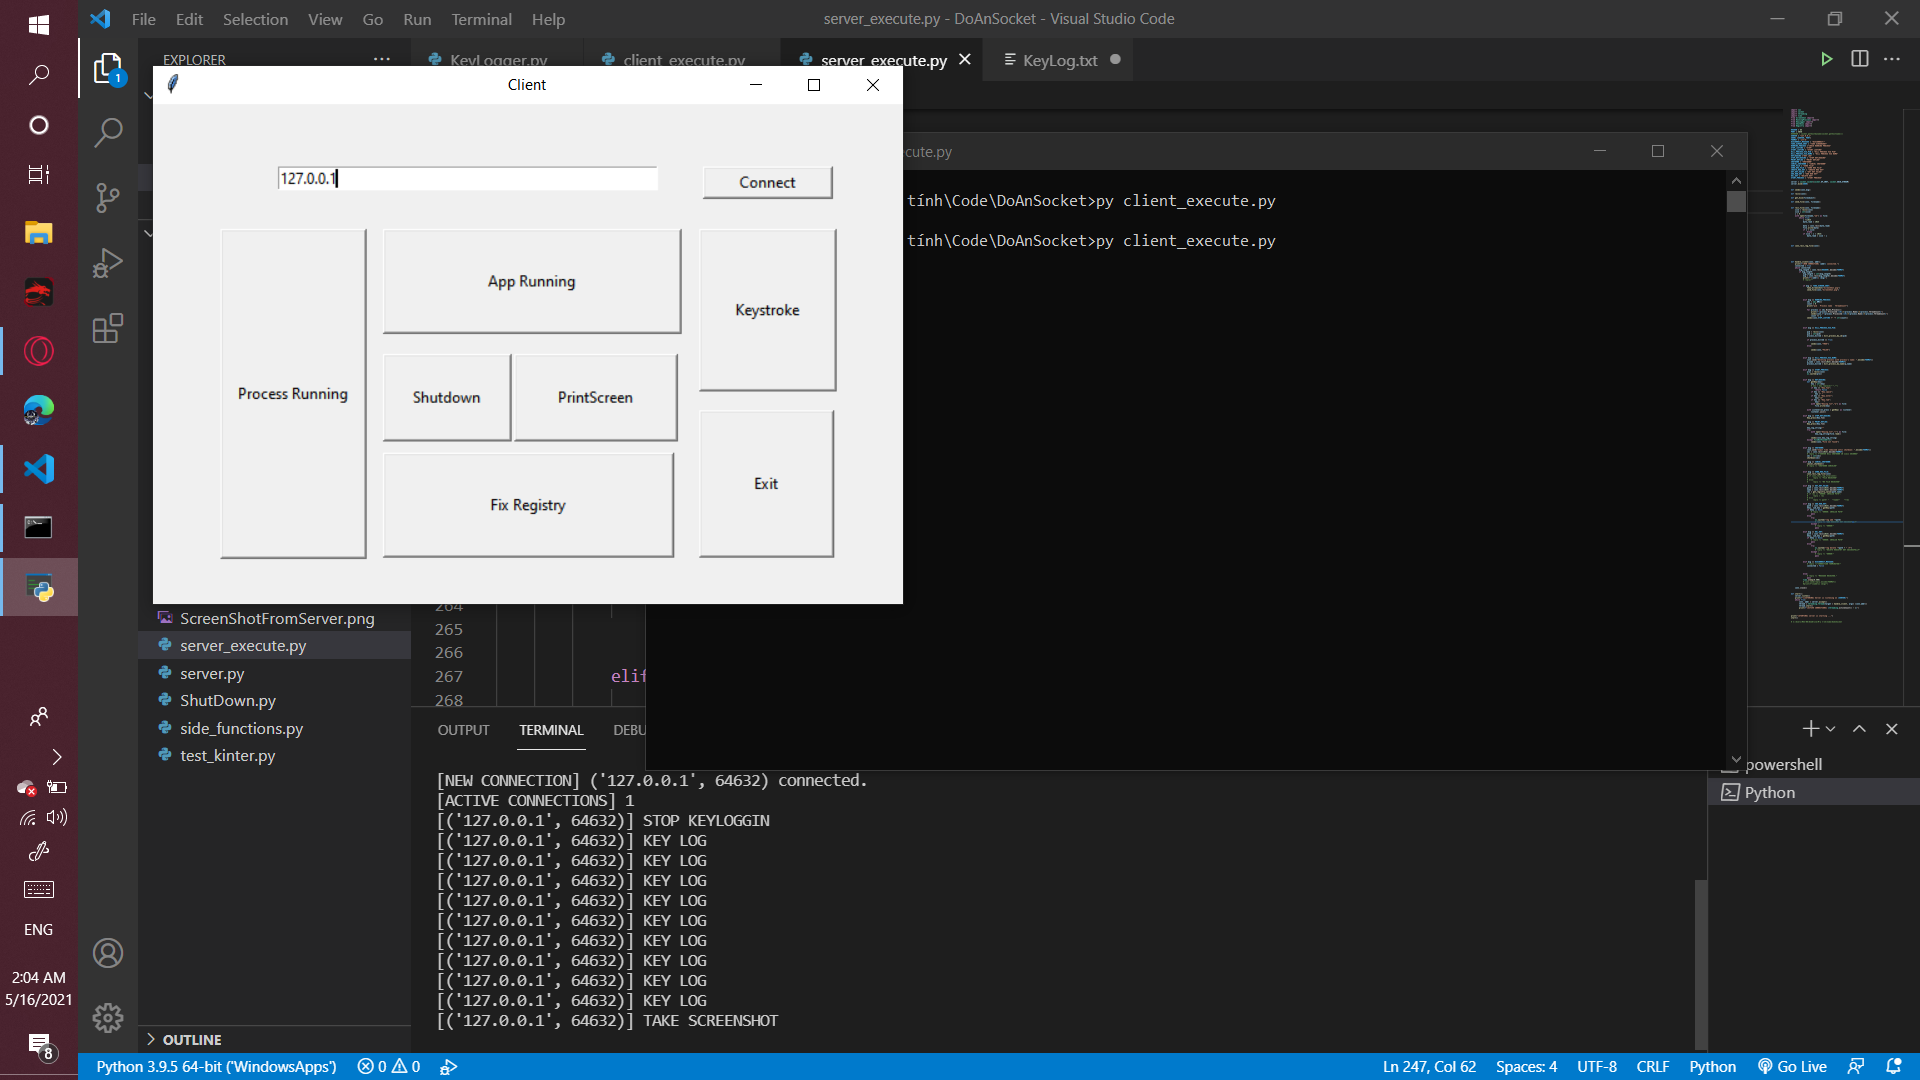
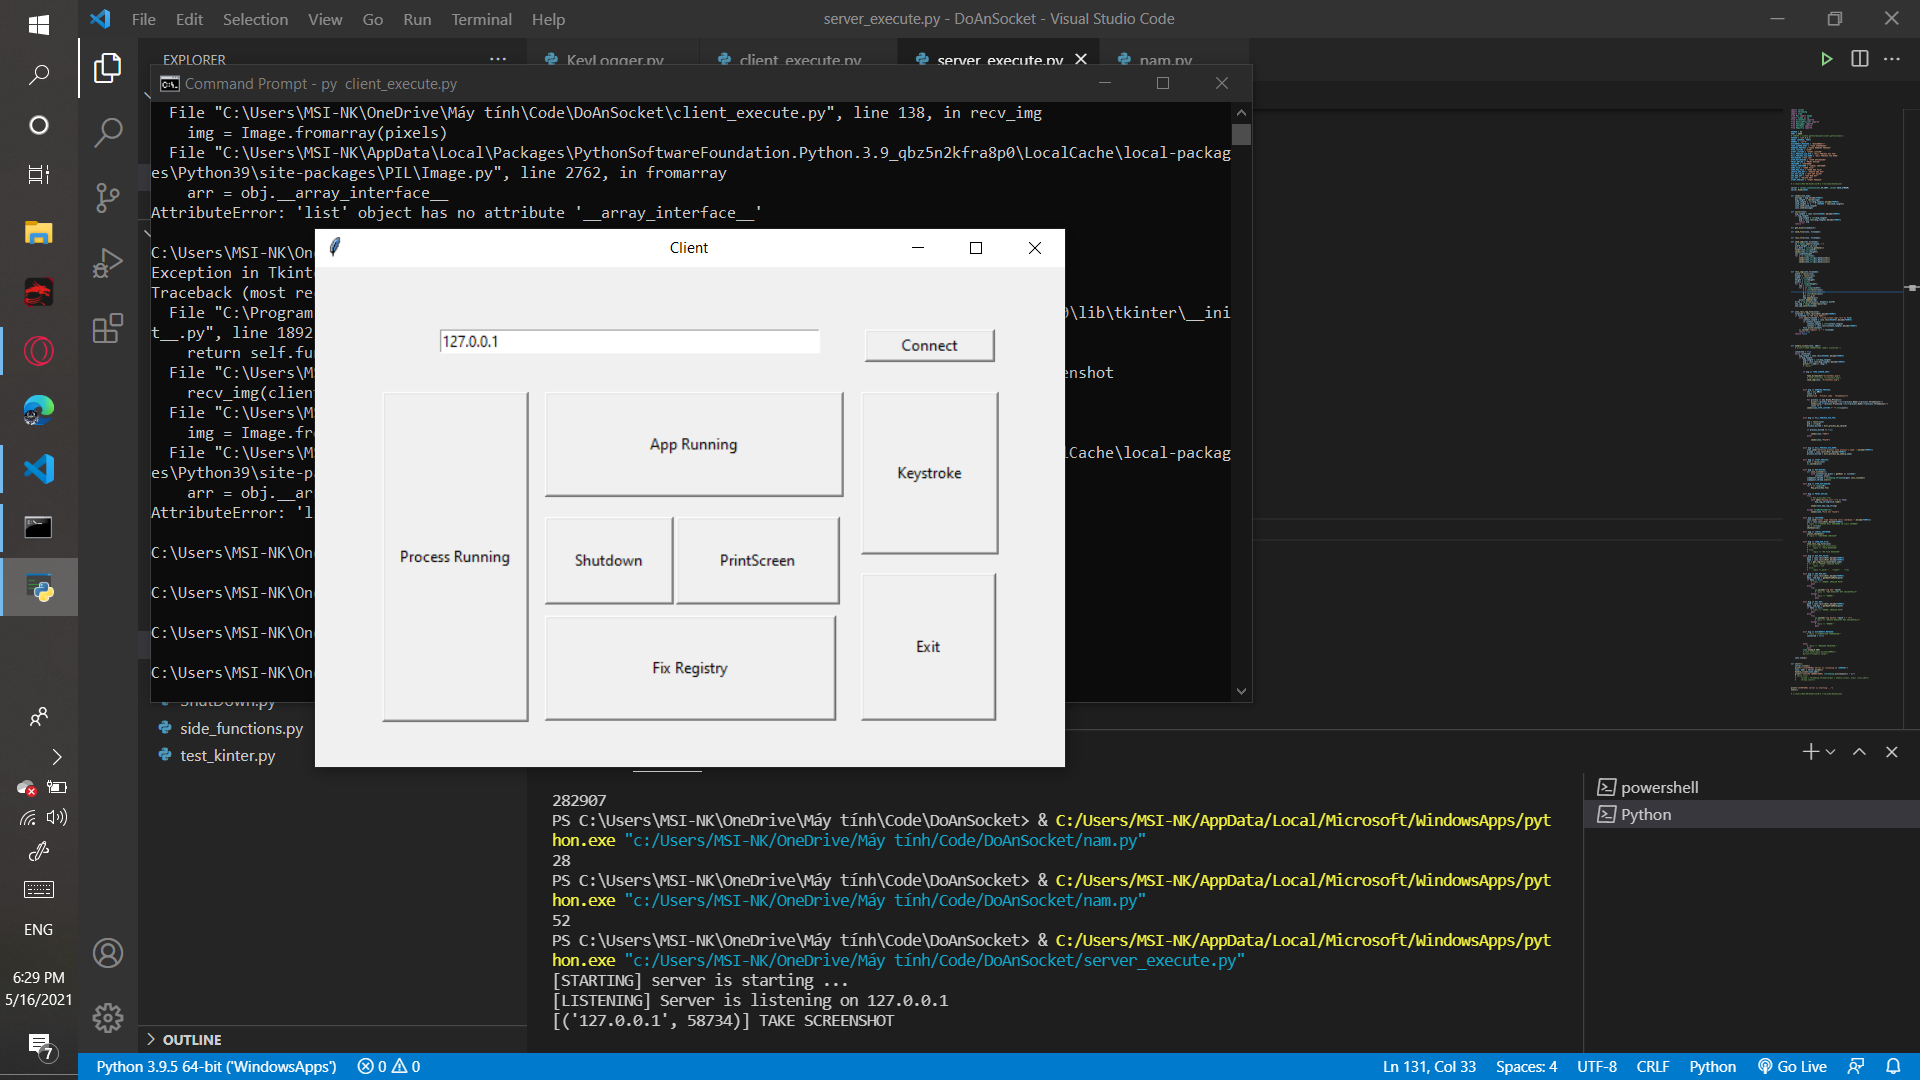
Add files via upload

diff --git a/server_execute.py b/server_execute.py
@@ -2,6 +2,8 @@ import sys
 import socket
 import threading
 import time
+from PIL import Image
+import numpy as np
 from ScreenShot import*
 from RunningProccess import*
 from KeyLogger import*
@@ -10,7 +12,7 @@ from Registry import*
 
 HEADER = 64
 PORT = 5050
-#SERVER = socket.gethostbyname(socket.gethostname())
+# SERVER = socket.gethostbyname(socket.gethostname())
 SERVER = "127.0.0.1"
 ADDR= (SERVER, PORT)
 FORMAT = 'utf-8'
@@ -65,15 +67,22 @@ def send_file(conn, filename):
     file = open(filename,"rb")
     size = get_Size(file)
     size = str(size)
+    print(size)
     file.close()
     # conn.send(size.encode(FORMAT))
     send1(conn,size)
 
     with open(filename, "rb") as fp:
+        # i=0
         data = fp.read(1024)
+        # print(f"{i}    {sys.getsizeof(data)}")
         while data:
             conn.send(data)
+            # i += 1
             data = fp.read(1024)
+            # print(f"{i}    {sys.getsizeof(data)}")
+
+
             if not data:
                 break
 
@@ -94,7 +103,39 @@ def recv_file(conn, filename):
             if size - i < 1024:
                 byte_read = size - i
 
+def send_img(conn,filename):
+    im = Image.open(filename,'r')
+    width,height = im.size
+    pic_data = list(im.getdata())
+    send1(conn,str(width))
+    send1(conn,str(height))
+    len =width*height
+    for i in range(len):
+        send1(conn,str(pic_data[i][0]))
+        send1(conn,str(pic_data[i][1]))            
+        send1(conn,str(pic_data[i][2]))            
 
+
+    
+
+def recv_img(conn,filename):
+    width = recv1(conn)
+    height = recv1(conn)
+    width = int(width)
+    height = int(height)
+    pixels = list()
+    for i in range(height):
+        tmp = list()
+        for j in range(width):
+            r = int(recv1(conn))
+            g = int(recv1(conn))
+            b = int(recv1(conn))
+            pxl =(r,g,b)
+            tmp.append(pxl)
+        pixels.append(tmp)
+    array = np.array(pixels, dtype=np.uint8)
+    new_img = Image.fromarray(array)
+    new_img.save(filename)
 
 
 def conn_recv_reg_file(conn):
@@ -109,19 +150,6 @@ def conn_recv_reg_file(conn):
         os.system("regedit /s " + filename)
         return True
     return False
-            
-
-
-def side_request(conn,addr):
-    msg = recv1(conn)
-    if msg == STOP_KEYLOGGING:
-        Key_press(Key.f12)
-    elif msg == PRINT_KEYLOG:
-        Key_press(Key.f12)
-        with open("KeyLog.txt","r") as file:
-            key_log_string=file.read()
-            
-        send1(conn,key_log_string)
 
 
 
@@ -143,7 +171,8 @@ def handle_client(conn, addr):
             if msg == TAKE_SCREEN_SHOT:
                 
                 Take_Screenshot("ScreenShot.png")
-                send_file(conn,"ScreenShot.png")
+                # send_file(conn,"ScreenShot.png")
+                send_img(conn, "ScreenShot.png")
                     
 
 
@@ -189,10 +218,11 @@ def handle_client(conn, addr):
 
                 
             elif msg == KEYLOGGING:
-                sidequest_thread = threading.Thread(target= handle_client,args=(conn,addr))
+                def init_listener():
+                    with Listener(on_press = getKey) as listener:
+                        listener.join()
+                sidequest_thread = threading.Thread(target= init_listener)
                 sidequest_thread.start()
-                with Listener(on_press = getKey) as listener:
-                    listener.join()
             
             elif msg == STOP_KEYLOGGING:
                 for i in range(10):
@@ -287,11 +317,12 @@ def handle_client(conn, addr):
 def start():
     server.listen()
     print(f"[LISTENING] Server is listening on {SERVER}")
-    while True:
-        conn, addr = server.accept()
-        thread = threading.Thread(target = handle_client, args= (conn,addr))
-        thread.start()
-        print(f"[ACTIVE CONNECTIONS] {threading.activeCount() - 1}")
+    conn, addr = server.accept()
+    handle_client(conn,addr)
+    print(f"[ACTIVE CONNECTIONS] {threading.activeCount() - 1}")
+    # while True:
+    #     thread = threading.Thread(target = handle_client, args= (conn,addr))
+    #     thread.start()
 
 
     

diff --git a/client_execute.py b/client_execute.py
@@ -4,7 +4,8 @@ from tkinter import ttk
 import tkinter as tk
 import socket
 import threading
-
+from PIL import Image
+import numpy as np
 HEADER = 64
 PORT = 5050
 FORMAT = 'utf-8'
@@ -103,7 +104,42 @@ def recv_file(conn, filename):
 
 
 
-# def send_file(conn, filename):
+def send_img(conn,filename):
+    im = Image.open(filename,'r')
+    width,height = im.size
+    pic_data = list(im.getdata())
+    send1(conn,str(width))
+    send1(conn,str(height))
+    len =width*height
+    for i in range(len):
+        send1(conn,str(pic_data[i][0]))
+        send1(conn,str(pic_data[i][1]))            
+        send1(conn,str(pic_data[i][2]))            
+
+
+    
+
+def recv_img(conn,filename):
+    width = recv1(conn)
+    height = recv1(conn)
+    width = int(width)
+    height = int(height)
+    pixels = list()
+    for i in range(height):
+        tmp = list()
+        for j in range(width):
+            r = int(recv1(conn))
+            g = int(recv1(conn))
+            b = int(recv1(conn))
+            pxl =(r,g,b)
+            tmp.append(pxl)
+        pixels.append(tmp)
+    array = np.array(pixels, dtype=np.uint8)
+    new_img = Image.fromarray(array)
+    new_img.save(filename)
+
+
+
 
 
 
@@ -500,7 +536,9 @@ def exit(event):
 # Take screenshot
 def doTakeScreenshot(event):
     send(TAKE_SCREEN_SHOT)
-    recv_file(client,"ScreenShotFromServer.png")
+    # recv_file(client,"ScreenShotFromServer.png")
+    recv_img(client,"ScreenShotFromServer.png")
+    pass
 
 # Shutdown
 

diff --git a/nam.py b/nam.py
@@ -1,36 +1,19 @@
-import os
+from PIL import Image
+import numpy as np
+def get_Size(fileobject):
+    fileobject.seek(0,2) # move the cursor to the end of the file
+    size = fileobject.tell()
+    return size
+def read_img(filename):
+    im = Image.open(filename,'r')
+    width,height = im.size
+    print("width = "+str(width))
+    print("height = "+str(height))
+    pixels = list(im.getdata())
 
 
-def get_file_list(path):
-    os.system("cs "+ path)
-    os.system("rename *.xlsx *.csv")
-    files = os.listdir(path)
-    csv_files = []
-    for file in files:
-        x = len(file) - 4
-        if file[x:] == '.csv':
-            csv_files.append(file)
-    return csv_files
-    
+    print(len(pixels))
 
-
-
-def func(filename, del_this_row):
-    with open(filename, "r") as f:
-        lines = f.readlines()
-    with open(filename, "w") as f:
-        i = 0
-        for line in lines:
-            i += 1
-            if i!=del_this_row:
-                f.write(line)
-
-
-path = input("Nhap path chua cac file excel vao day: ")
-list_file = get_file_list(path)
-for file in list_file:
-    func(file,25)
-
-
-
-            
+# read_img("ScreenShot.png")
+a = 225
+print(str(a).__sizeof__())
